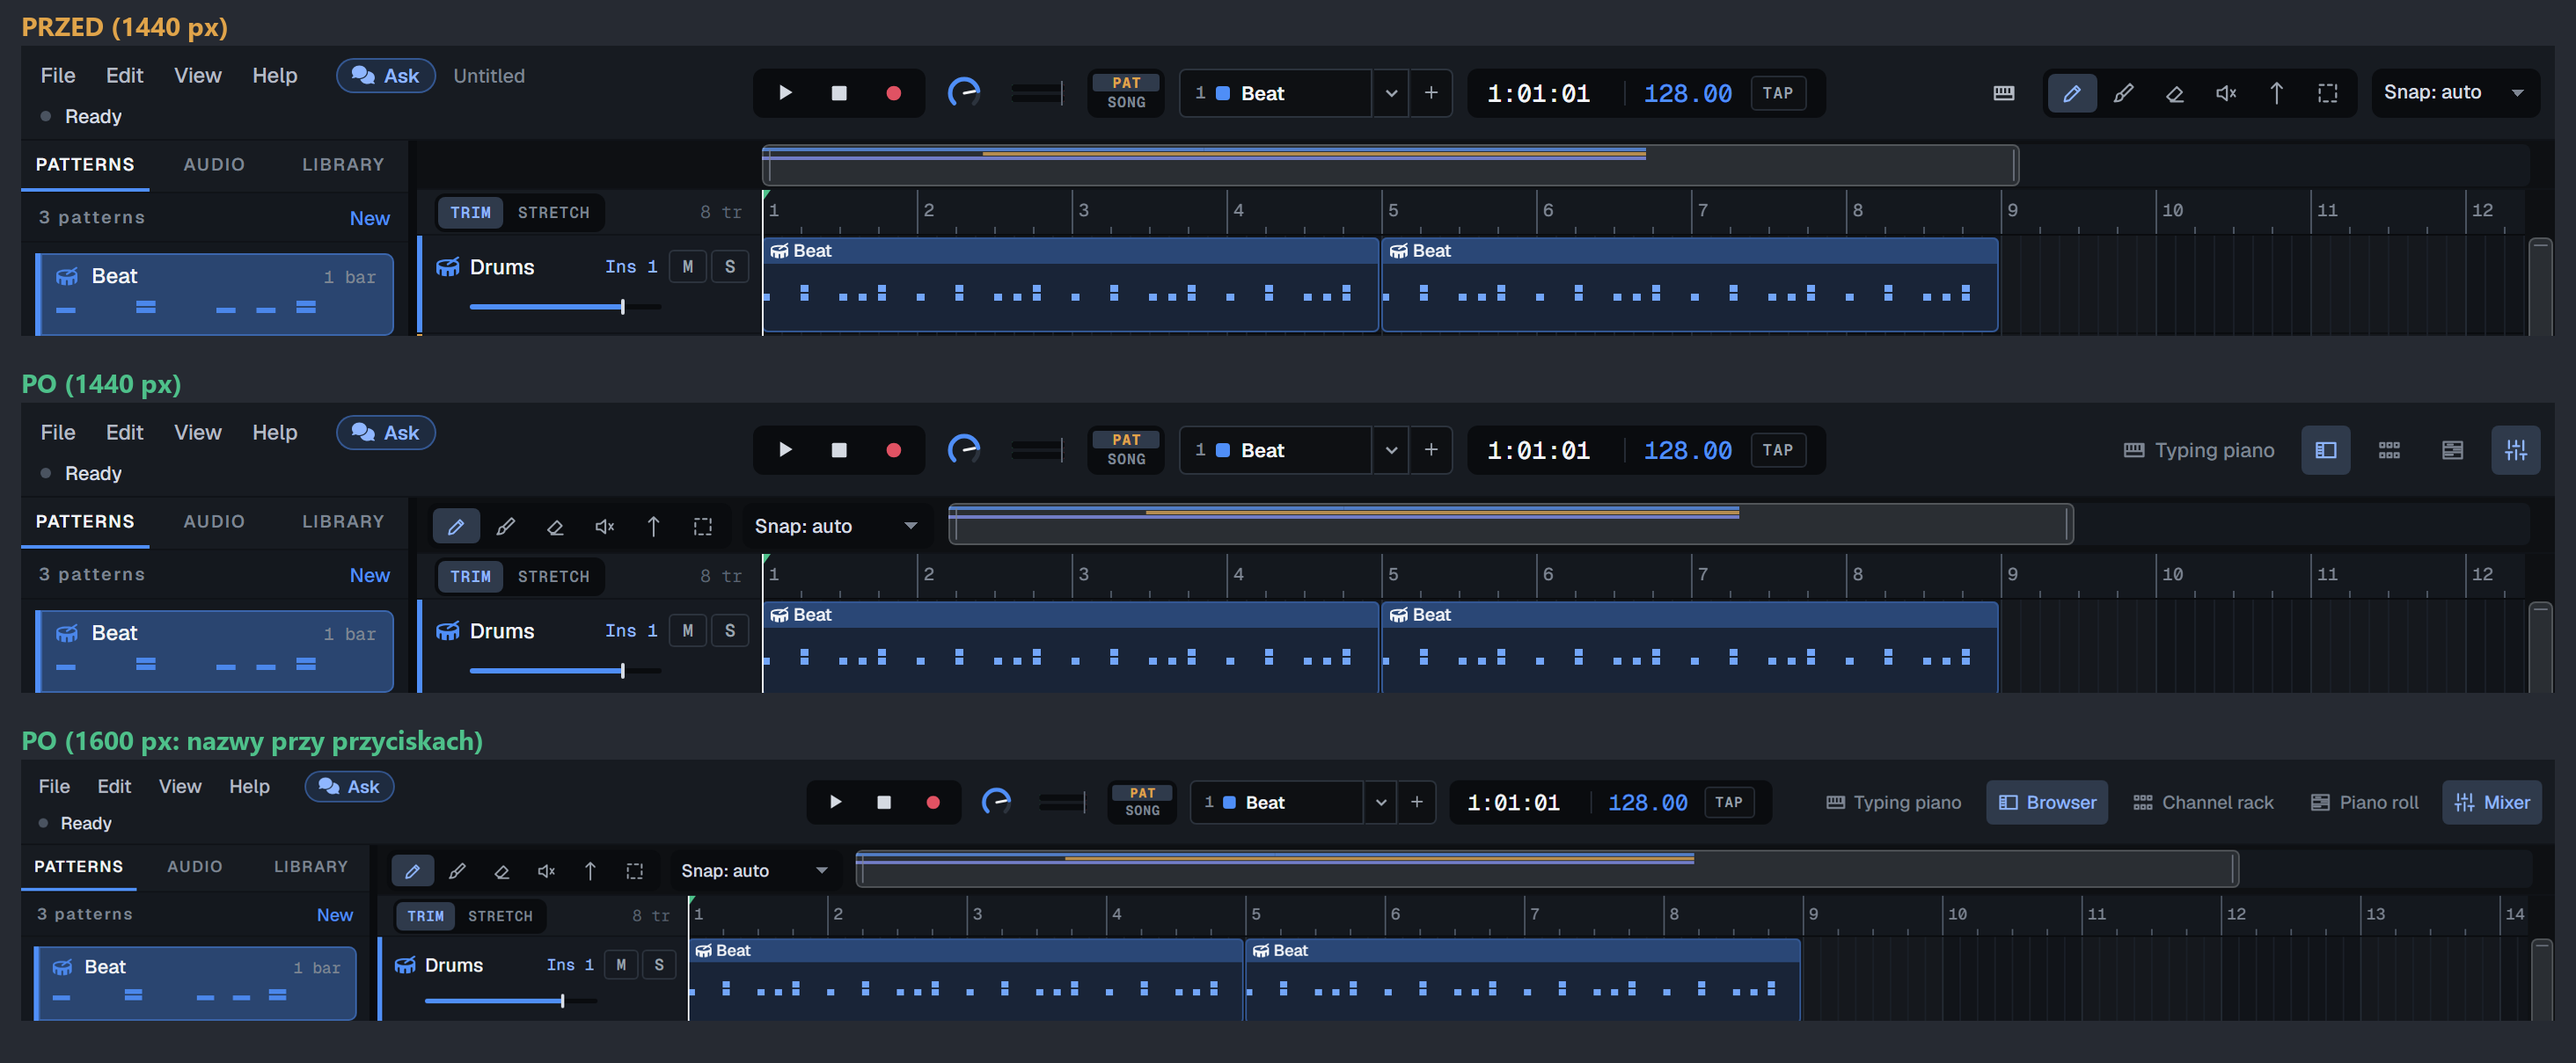
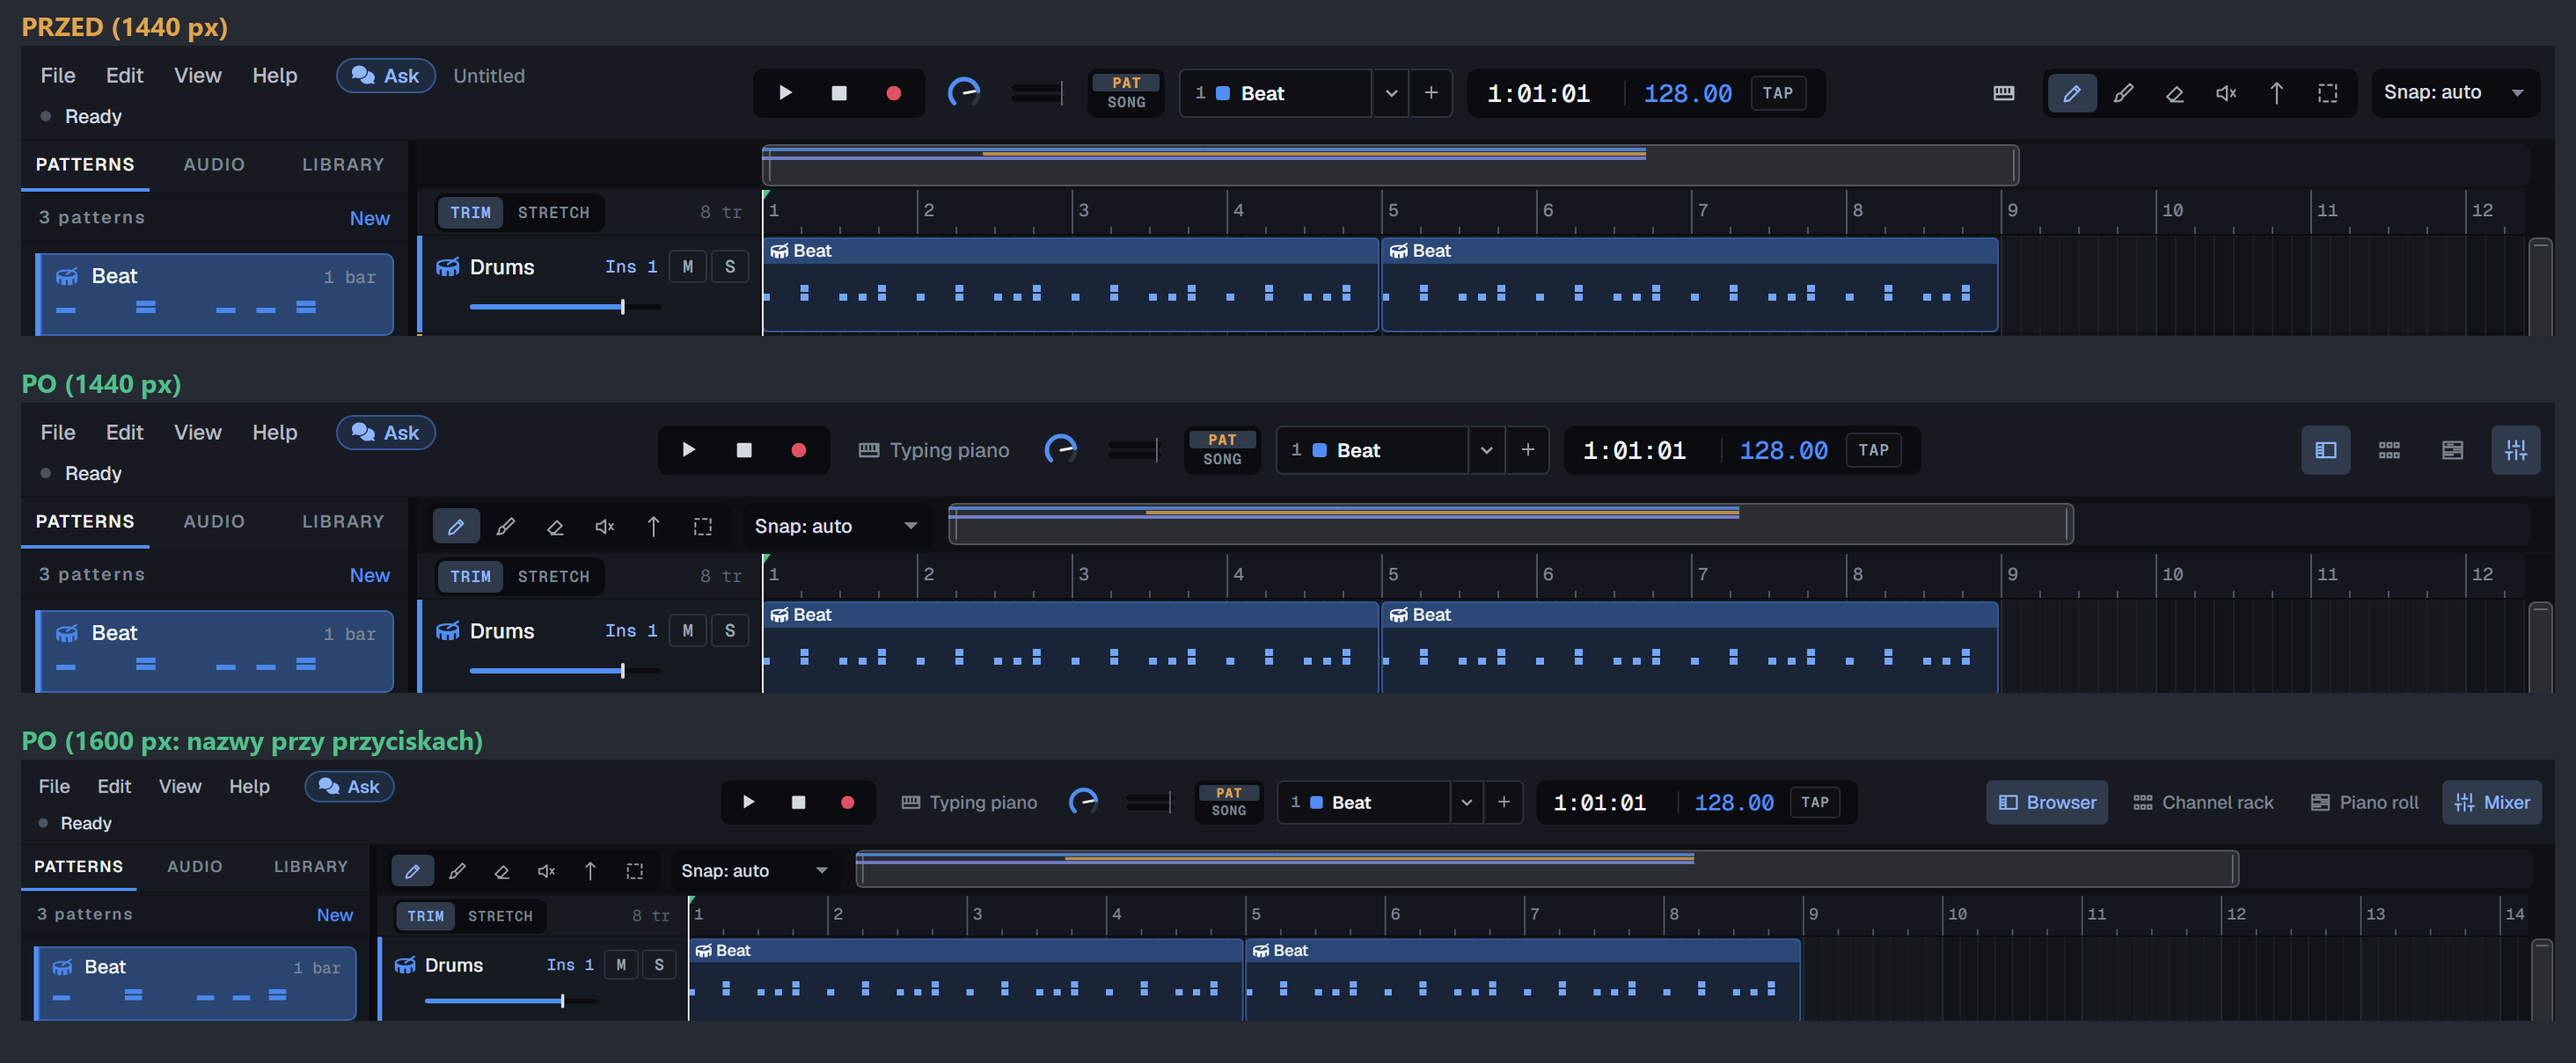
App bar: the typing-piano toggle sits beside the transport
It is an input mode, like record and monitor, not a panel, so it moves
out of the panel buttons to the transport zone, right after the transport
group. Fit checked at 16 bar widths, 1920-960 px: no clipping or overlap.

Changed region(s): [[0.2797, 0.3978, 0.7148, 0.4591], [0.3108, 0.7345, 0.777, 0.7651], [0.8391, 0.3978, 0.8702, 0.4285]]

diff --git a/ui/src/views/Toolbar.tsx b/ui/src/views/Toolbar.tsx
@@ -198,6 +198,13 @@ export function Toolbar() {
         </button>
         <button class="count" classList={{ on: T().countIn }} title={t('a.tb.countTip')} onClick={() => void A.setTransportFlag('countIn', !T().countIn)}>1 BAR</button>
       </div>
+      {/* an input mode, like record and monitor: beside the transport, not among the panel buttons */}
+      <button class="tbtn icon typkb" aria-pressed={typingOn()} classList={{ on: typingOn() }} title={typingOn() ? t('a.tb.typOn', { z: noteName(typingBase()), q: noteName(typingBase() + 12) }) : t('a.tb.typOff')}
+        onClick={() => setTypingOn(!typingOn())}>
+        <Icon d="M3 6h18v12H3z M7 6v7 M11 6v7 M15 6v7 M19 6v7 M3 13h18" size={14} />
+        <span class="lbl">{t('a.tb.typLabel')}</span>
+        <Show when={typingOn()}><span class="mono typoct">{noteName(typingBase())}</span></Show>
+      </button>
       <MainVolume />
       <MasterOut />
       <div class="seg patsong" title={t('a.tb.patSongTip')}>
@@ -217,12 +224,6 @@ export function Toolbar() {
       <span data-drag class="loopText" style={{ color: S.project.loop ? 'var(--green)' : 'var(--fg5)' }}>{S.project.loop ? 'LOOP ' + fmtPos(S.project.loop.a) + ' – ' + fmtPos(S.project.loop.b) : ''}</span>
       <div data-drag class="dragfill" />
       <Show when={prefs().cpuMeter}><CpuMeter /></Show>
-      <button class="tbtn icon typkb" aria-pressed={typingOn()} classList={{ on: typingOn() }} title={typingOn() ? t('a.tb.typOn', { z: noteName(typingBase()), q: noteName(typingBase() + 12) }) : t('a.tb.typOff')}
-        onClick={() => setTypingOn(!typingOn())}>
-        <Icon d="M3 6h18v12H3z M7 6v7 M11 6v7 M15 6v7 M19 6v7 M3 13h18" size={14} />
-        <span class="lbl">{t('a.tb.typLabel')}</span>
-        <Show when={typingOn()}><span class="mono typoct">{noteName(typingBase())}</span></Show>
-      </button>
       <Show when={wins()}>
         <button class="tbtn icon winsbtn" classList={{ on: !anyTucked() }} onClick={() => (anyTucked() ? A.showPlugs() : A.playlistFront())}
           title={anyTucked() ? t('a.tb.showWins', { n: wins() }) : t('a.tb.hideWins')} aria-label={t('a.tb.windows', { n: wins() })}>
